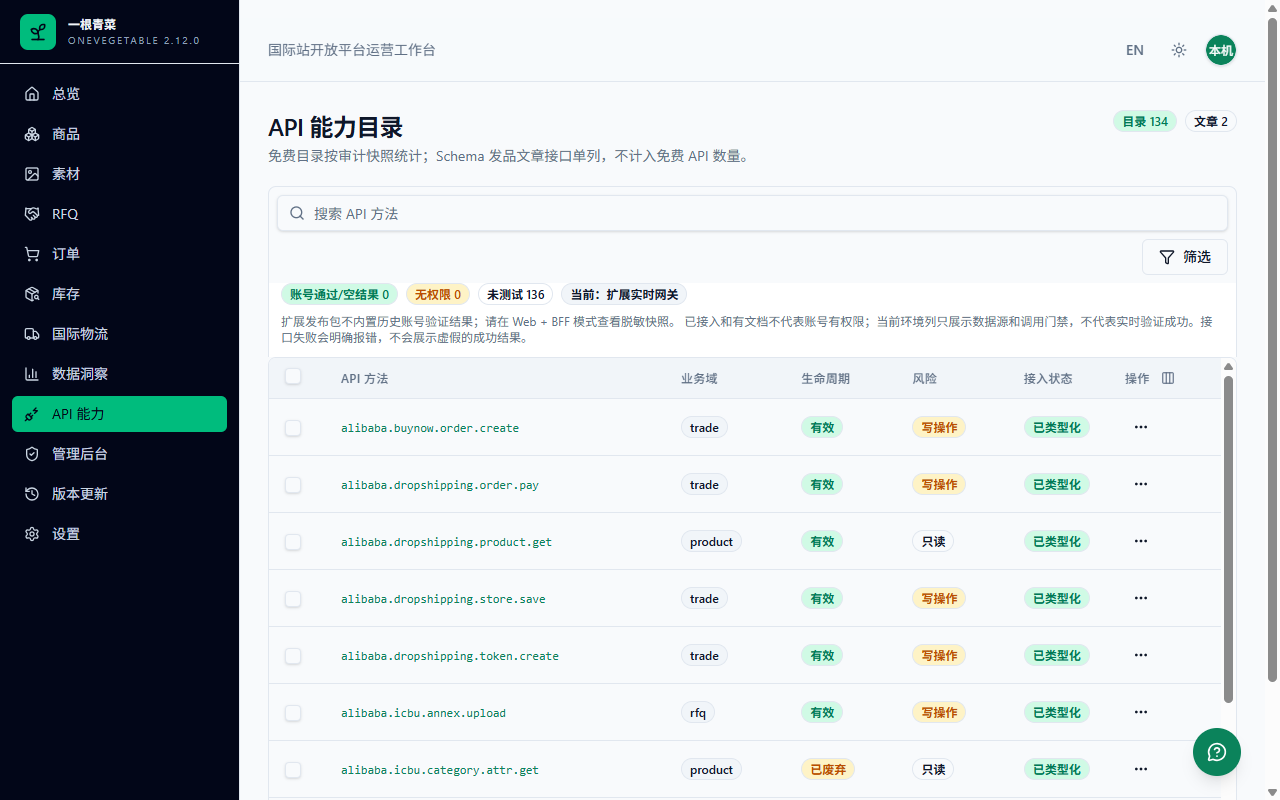
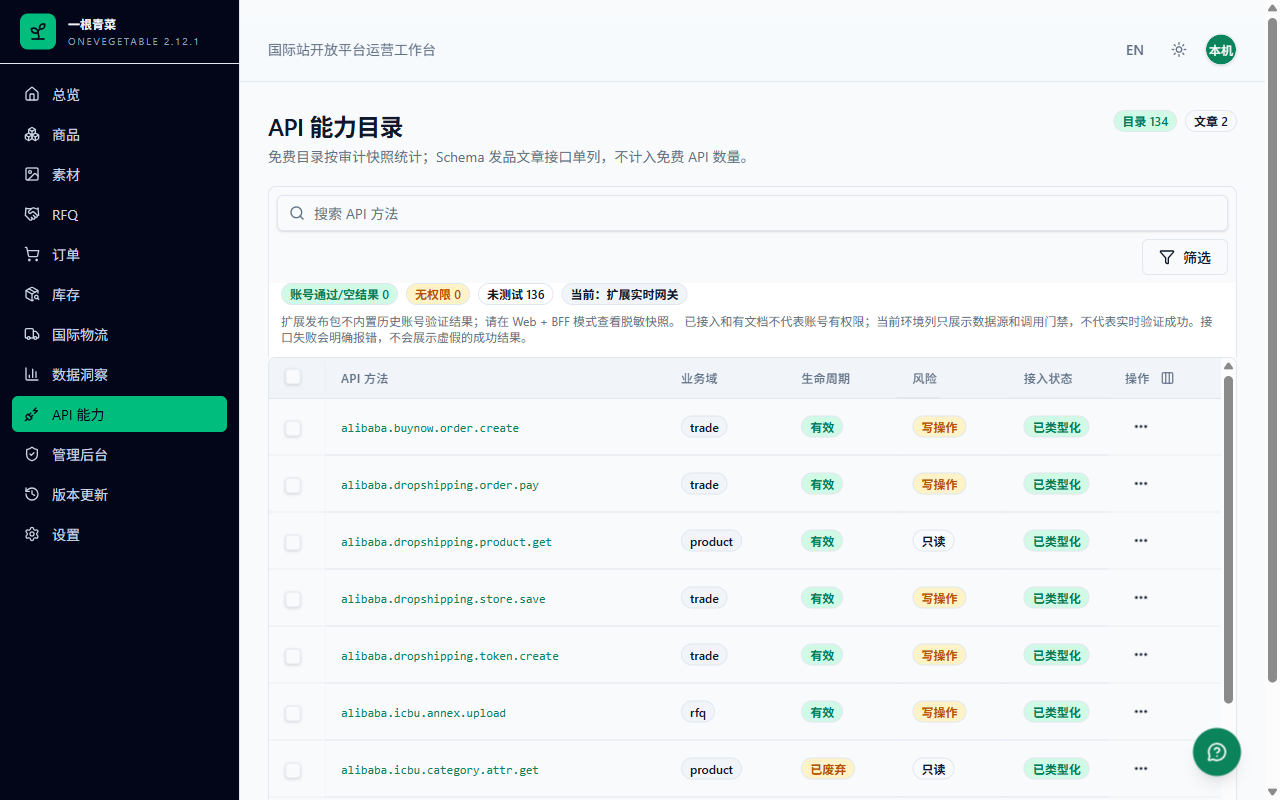
docs(release): refresh 2.12.1 store screenshots and test procedure

diff --git a/docs/release-process.md b/docs/release-process.md
@@ -23,6 +23,10 @@
    pnpm release:extension
    ```
 
+   扩展构建、截图、升级验证和 E2E 按构建依赖顺序执行。浏览器正在加载 `apps/extension/.output/chrome-mv3` 时，不要并行运行 `build:extension` / `release:extension`；WXT 会清理输出目录，导致测试页临时缺失脚本。先构建，固定产物完成测试，再打包同一构建。
+
+   如果本机 `8796` 已有服务占用，回放测试可设置 `$env:ONE_VEGETABLE_REPLAY_E2E_PORT='18796'`；预备迁移与 Playwright 必须使用同一环境变量。测试数据库按端口隔离在 `apps/api/.wrangler/bff-replay-e2e-<port>`，不会要求停止现有服务。端口须为 1024–65535 的整数；默认仍为 8796。
+
 4. 确认待发布提交已经推送且属于远端 `master`，再创建 annotated tag：
 
    ```powershell
